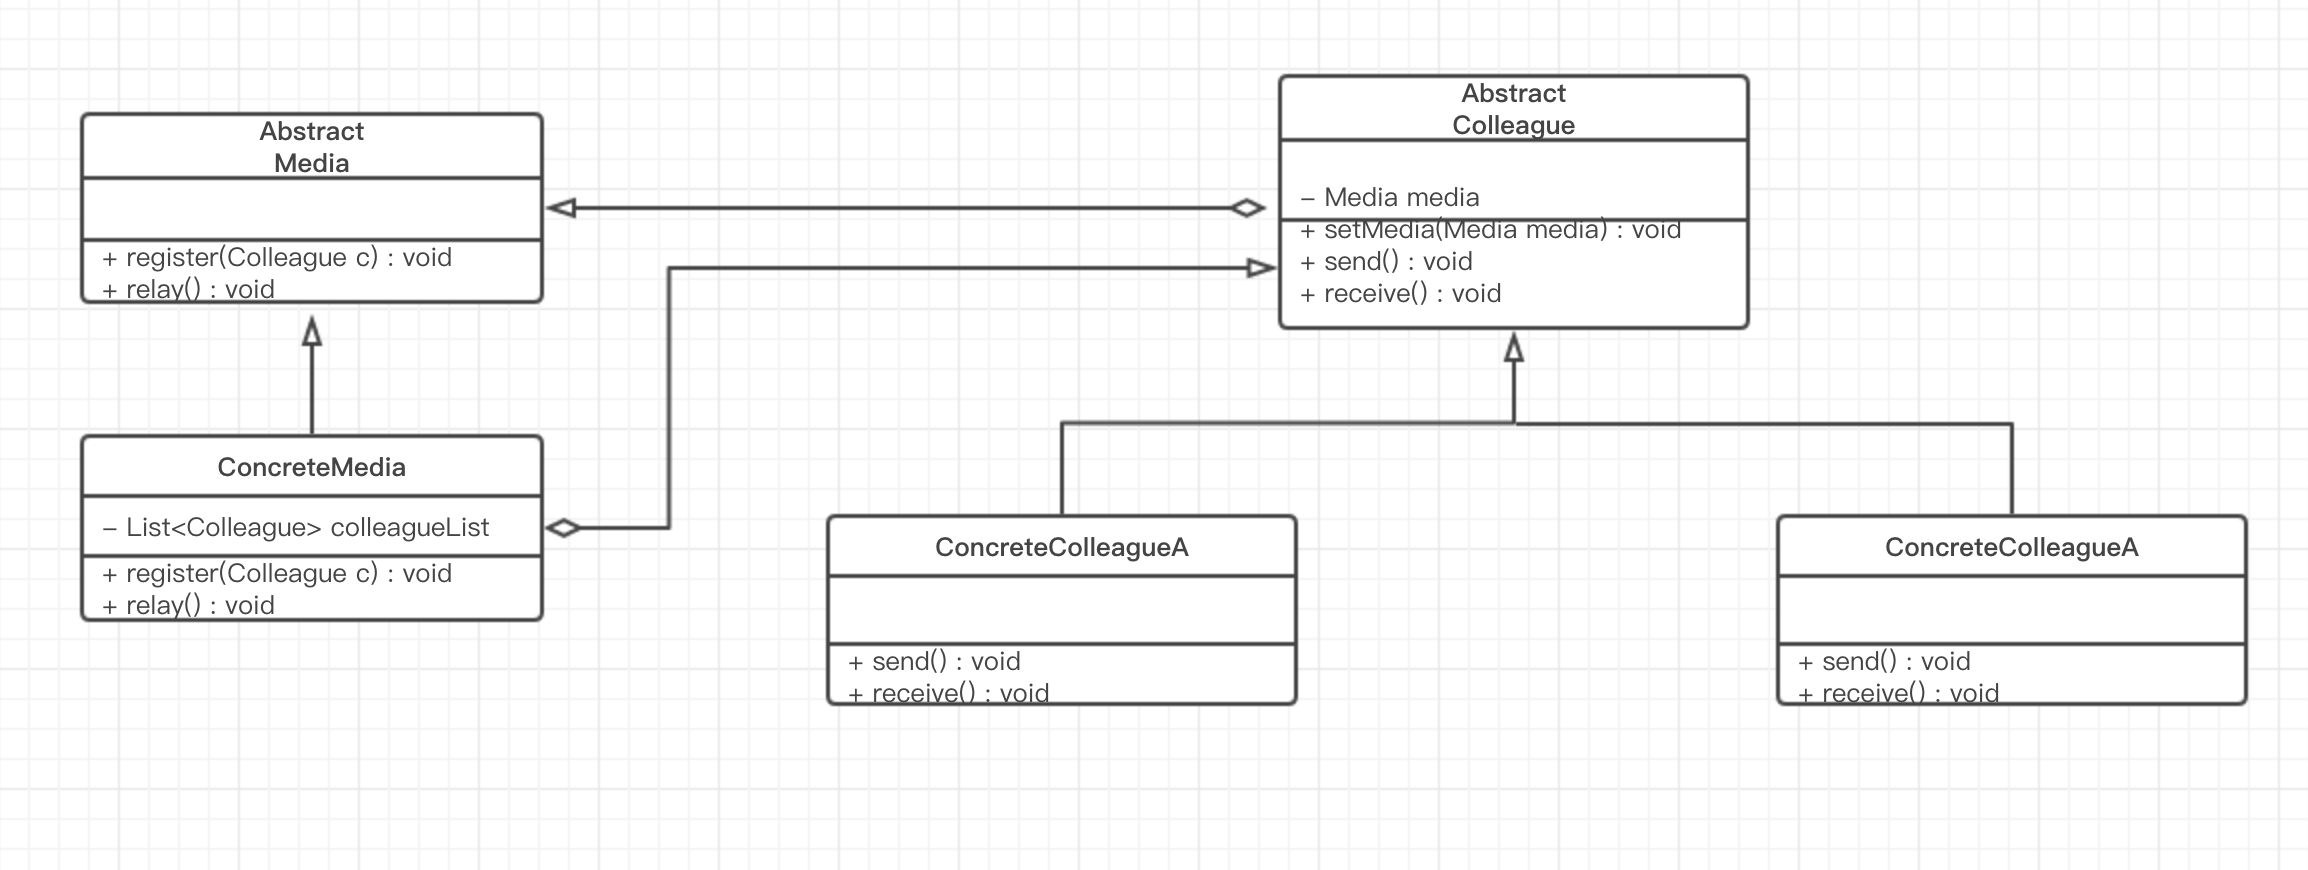
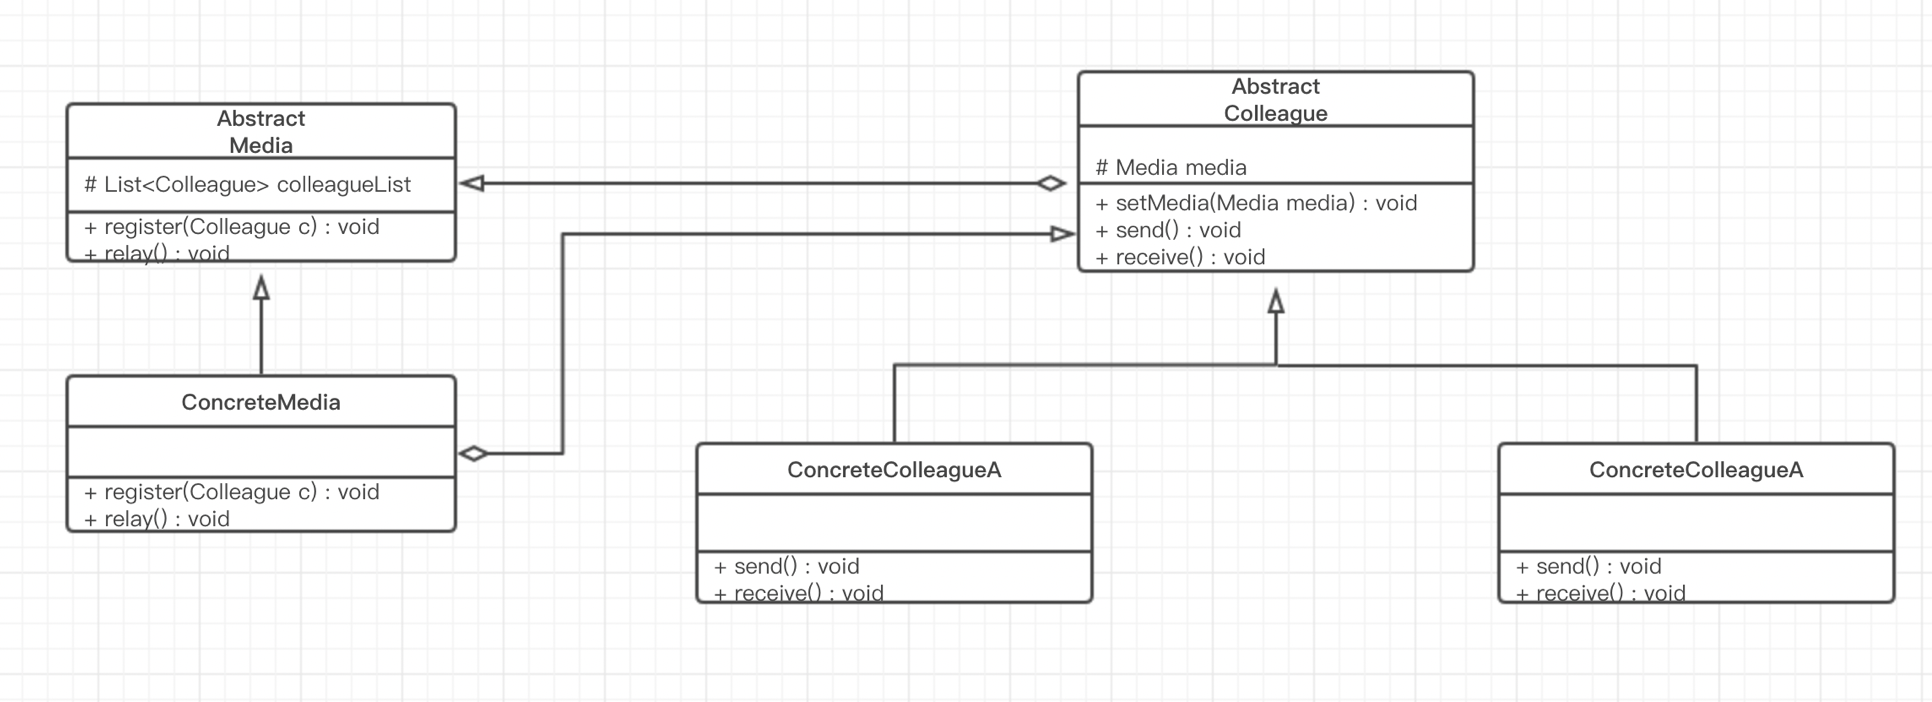
refine

Changed region(s): [[0.0311, 0.0598, 0.9938, 0.8675]]

diff --git a/src/main/java/pattern/behavior/mediator/ConcreteMedia.java b/src/main/java/pattern/behavior/mediator/ConcreteMedia.java
@@ -1,24 +1,22 @@
 package pattern.behavior.mediator;
 
-import org.springframework.util.CollectionUtils;
-
 public class ConcreteMedia extends Media {
 
-  @Override
-  public void register(Colleague colleague)  {
-    if (CollectionUtils.isEmpty(colleagueList) || !colleagueList.contains(colleague)) {
-      colleagueList.add(colleague);
-      System.out.println("media add new colleague: " + colleague.hashCode());
+    @Override
+    public void register(Colleague colleague) {
+        if (!colleagueList.contains(colleague)) {
+            colleagueList.add(colleague);
+            System.out.println("media add new colleague, colleague hashcode: " + colleague.hashCode());
+        }
     }
-  }
 
-  @Override
-  public void forward(Colleague colleague, String message) {
-    colleagueList
-        .forEach(input -> {
-          if (null != input && !colleague.equals(input)) {
-            input.receive(message);
-          }
-        });
-  }
+    @Override
+    public void forward(Colleague colleague, String message) {
+        colleagueList
+                .forEach(input -> {
+                    if (null != input && !colleague.equals(input)) {
+                        input.receive(message);
+                    }
+                });
+    }
 }

diff --git a/src/main/java/pattern/behavior/interpret/Test.java b/src/main/java/pattern/behavior/interpret/Test.java
@@ -2,20 +2,19 @@ package pattern.behavior.interpret;
 
 public class Test {
 
+  //创建规则：Robert 和 John 是男性, 可以解释两个人的性别
   static Express getMaleExpress() {
-    //创建规则：Robert 和 John 是男性
-    Express john = new TerminalExpress("John");
-    Express robert = new TerminalExpress("Robert");
-    return new OrExpress(john, robert);
+    Express johnExpress = new TerminalExpress("John");
+    Express robertExpress = new TerminalExpress("Robert");
+    return new OrExpress(johnExpress, robertExpress);
   }
 
+  //创建规则：Fiona 是已婚女性，用来解释Fiona的性别和婚姻
   static Express getMarriedFemale() {
-    //创建规则：Fiona 是已婚女性
-    Express fiona = new TerminalExpress("Fiona");
-    Express married = new TerminalExpress("Married");
-    return new AddExpress(fiona, married);
+    Express fionaExpress = new TerminalExpress("Fiona");
+    Express marriedExpress = new TerminalExpress("Married");
+    return new AddExpress(fionaExpress, marriedExpress);
   }
-
 
   public static void main(String[] args) {
     Express isMaleExpress = getMaleExpress();

diff --git a/src/main/java/pattern/behavior/command/Stock.java b/src/main/java/pattern/behavior/command/Stock.java
@@ -3,14 +3,16 @@ package pattern.behavior.command;
 //命令接受对象
 public class Stock {
 
-  private Integer num = 10;
+  private Integer BuyNum = 20;
+  private Integer sellNum = 10;
+
   private String name = "stockProcess";
 
   public void buy() {
-    System.out.println("buy stock " + name + " --- num :" + num);
+    System.out.println("buy stock " + name + " --- num :" + BuyNum);
   }
 
   public void sell() {
-    System.out.println("sell stock " + name + " --- num :" + num);
+    System.out.println("sell stock " + name + " --- num :" + sellNum);
   }
 }

diff --git a/src/main/java/pattern/behavior/visitor/twoVisitor/Test.java b/src/main/java/pattern/behavior/visitor/twoVisitor/Test.java
@@ -6,14 +6,14 @@ public class Test {
 
     VisitorI visitorI = new CEOVisitor();
     Staff staff1 = new EngineerStaff("工程师1");
-    staff1.accept(visitorI);
     Staff staff12 = new MangerStaff("产品经理1");
+    staff1.accept(visitorI);
     staff12.accept(visitorI);
 
     VisitorI visitorI1 = new CTOVisitor();
     Staff staff11 = new EngineerStaff("工程师1");
-    staff11.accept(visitorI1);
     Staff staff121 = new MangerStaff("工程师2");
+    staff11.accept(visitorI1);
     staff121.accept(visitorI1);
   }
 }

diff --git a/src/main/java/pattern/constructure/composite/safe/CompositeTest.java b/src/main/java/pattern/constructure/composite/safe/CompositeTest.java
@@ -28,14 +28,9 @@ public class CompositeTest {
 
     /**
      *   要说明的意思是， composite  对  composite 和 leaf 的操作完全相同，composite 可以add 其他composite对象，也可以add 任何实现了 component 接口的对象, 例如
+     *   root.addComponent(picture);
+     *   root.addComponent(new Leaf("3.test"));
      */
-    root.addComponent(picture);
-    root.addComponent(new Leaf("3.test"));
-
     root.printStr();
-
-
-
   }
-
 }

diff --git a/src/main/java/pattern/behavior/status/Context.java b/src/main/java/pattern/behavior/status/Context.java
@@ -1,12 +1,13 @@
 package pattern.behavior.status;
 
 public class Context {
-  private Status status;
+    private Status status;
 
-  public void setStatus(Status status) {
-    this.status = status;
-  }
-  public void print(){
-    status.perform(this);
-  }
+    public void setStatus(Status status) {
+        this.status = status;
+    }
+
+    public void print() {
+        status.perform(this);
+    }
 }

diff --git a/src/main/java/pattern/behavior/mediator/Media.java b/src/main/java/pattern/behavior/mediator/Media.java
@@ -4,7 +4,7 @@ import com.google.common.collect.Lists;
 import java.util.List;
 
 public abstract class Media {
-  protected List<Colleague> colleagueList = Lists.newArrayList();
+  List<Colleague> colleagueList = Lists.newArrayList();
   public abstract void register(Colleague colleague);
   public abstract void forward(Colleague colleague, String message);
 

diff --git a/src/main/java/pattern/behavior/observe/jdkobserver/SecondObserverImpl.java b/src/main/java/pattern/behavior/observe/jdkobserver/SecondObserverImpl.java
@@ -14,6 +14,7 @@ public class SecondObserverImpl implements Observer {
 
   @Override
   public void update(Observable o, Object arg) {
-    System.out.println(name + " this is the SecondObserverImpl logging");
+    String msg = ((Subject) o).getMessage();
+    System.out.println(name + " this is the SecondObserverImpl logging: " + msg);
   }
 }

diff --git a/src/main/java/pattern/behavior/observe/jdkobserver/FirstObserverImpl.java b/src/main/java/pattern/behavior/observe/jdkobserver/FirstObserverImpl.java
@@ -15,6 +15,6 @@ public class FirstObserverImpl implements Observer {
   @Override
   public void update(Observable o, Object arg) {
     String msg = ((Subject) o).getMessage();
-    System.out.println(name + " this is the FirstObserverImpl logging");
+    System.out.println(name + " this is the FirstObserverImpl logging: " + msg);
   }
 }

diff --git a/src/main/java/pattern/behavior/mediator/Colleague.java b/src/main/java/pattern/behavior/mediator/Colleague.java
@@ -1,9 +1,9 @@
 package pattern.behavior.mediator;
 
 public abstract class Colleague {
-   protected Media media;
+   Media media;
 
-   public void setMedia(Media media) {
+   void setMedia(Media media) {
      this.media = media;
    }
    public abstract void send(String message);

diff --git a/src/main/java/pattern/behavior/mediator/ConcreteColleagueA.java b/src/main/java/pattern/behavior/mediator/ConcreteColleagueA.java
@@ -5,9 +5,7 @@ public class ConcreteColleagueA extends Colleague {
   @Override
   public void send(String message) {
     System.out.println("ca send message: " + message+ ", with media: " + media.hashCode());
-
     media.forward(this, message);
-
   }
 
   @Override

diff --git a/src/main/java/pattern/behavior/interpret/AddExpress.java b/src/main/java/pattern/behavior/interpret/AddExpress.java
@@ -2,8 +2,8 @@ package pattern.behavior.interpret;
 
 public class AddExpress implements Express {
 
-  Express expr1;
-  Express expr2;
+  private Express expr1;
+  private Express expr2;
 
   AddExpress(Express expr1, Express expr2) {
     this.expr1 = expr1;
